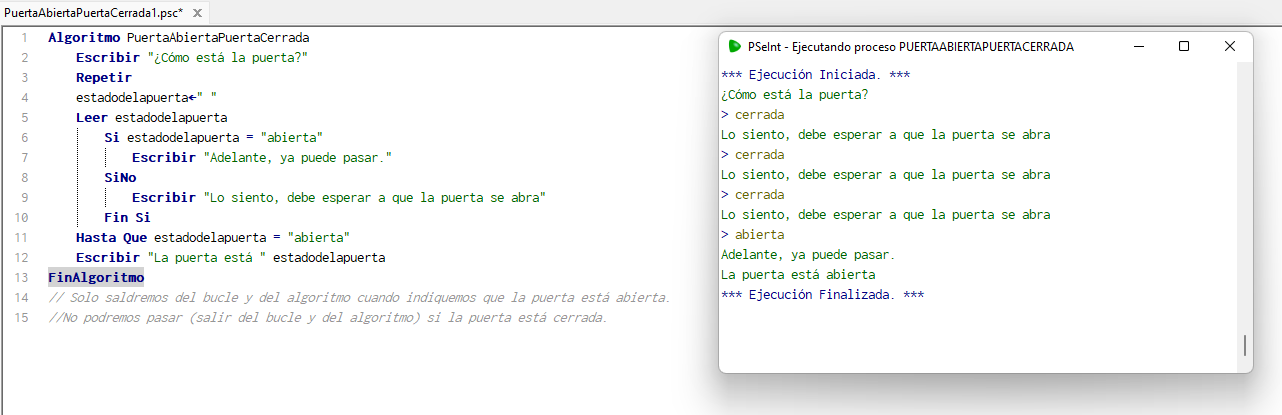
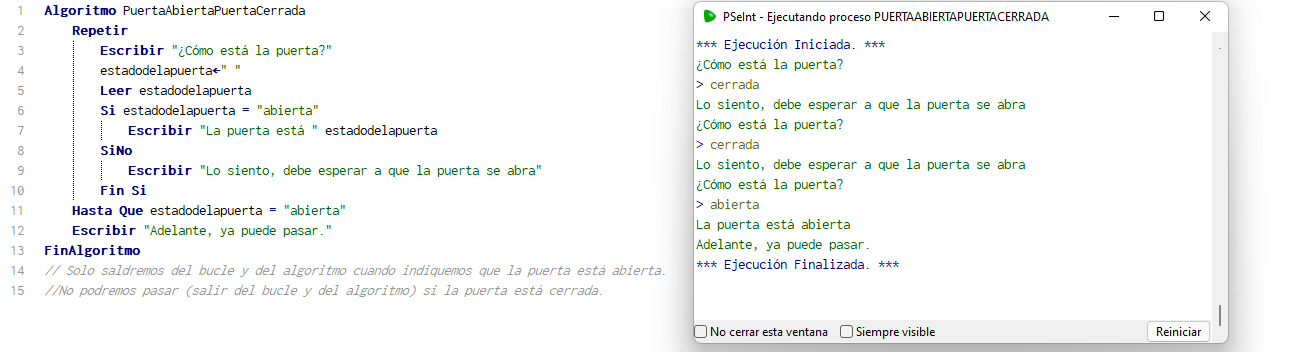
ActualizacionPuerta

diff --git a/MiPrimerAlgoritmo.md b/MiPrimerAlgoritmo.md
@@ -2,9 +2,9 @@
 
 El presente programa nos dejará acceder a una habitación cuando la puerta esté abierta. Si la puerta está cerrada no podremos pasar.
 ```
-AAlgoritmo PuertaAbiertaPuertaCerrada
-	Escribir "¿Cómo está la puerta?"
+Algoritmo PuertaAbiertaPuertaCerrada
 	Repetir
+		Escribir "¿Cómo está la puerta?"
 		estadodelapuerta<-" "
 		Leer estadodelapuerta
 		Si estadodelapuerta = "abierta"
